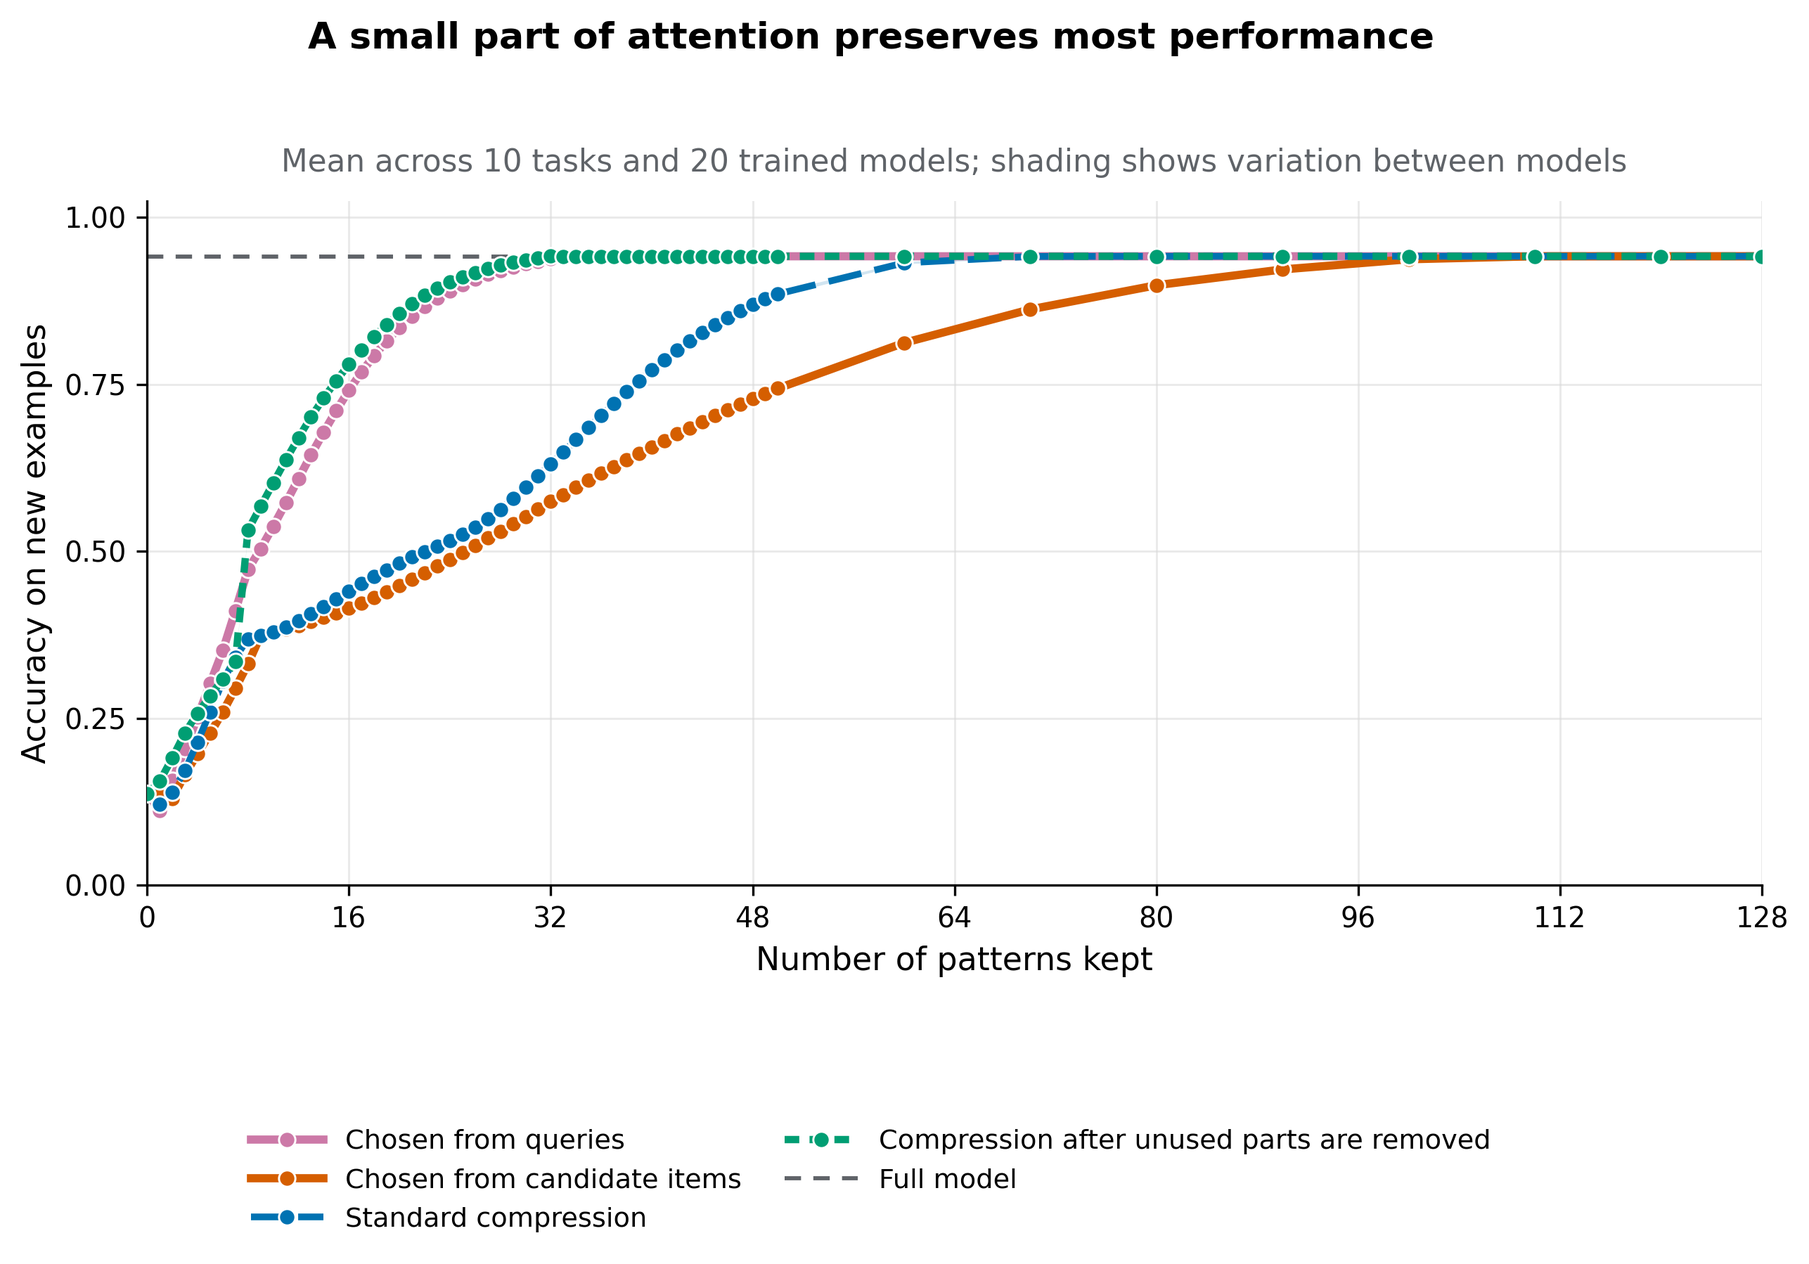
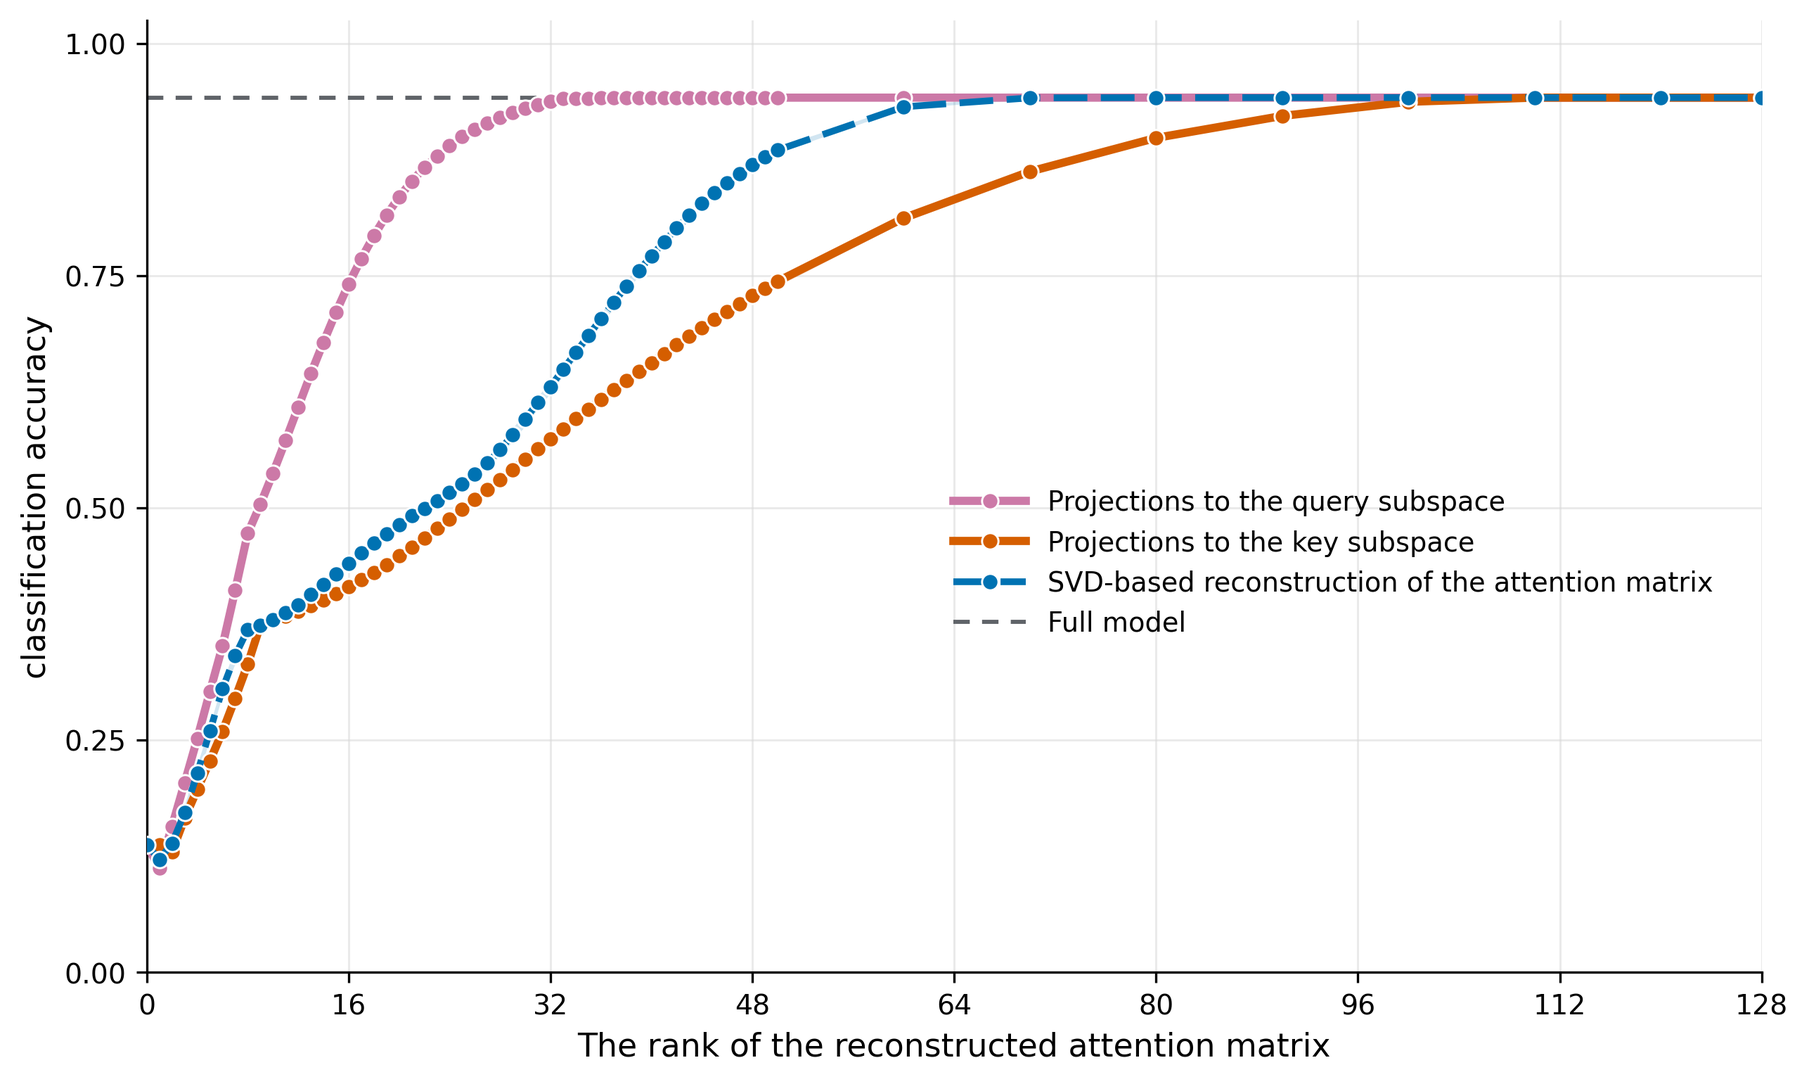
Update attention blog post

diff --git a/blog/connecting-structure-to-function-in-attention.html b/blog/connecting-structure-to-function-in-attention.html
@@ -10,12 +10,12 @@
     <link rel="canonical" href="https://fatihdinc.github.io/blog/connecting-structure-to-function-in-attention.html">
     <meta property="og:type" content="article">
     <meta property="og:title" content="Towards connecting structure and function in attention?">
-    <meta property="og:description" content="A small attention model can look complicated while using a much smaller, task-specific part of what it learned.">
+    <meta property="og:description" content="A small model can look complicated while using a much smaller part of what it learned.">
     <meta property="og:url" content="https://fatihdinc.github.io/blog/connecting-structure-to-function-in-attention.html">
     <meta property="og:image" content="https://fatihdinc.github.io/assets/og.png">
     <meta name="twitter:card" content="summary_large_image">
     <meta name="twitter:title" content="Towards connecting structure and function in attention?">
-    <meta name="twitter:description" content="A small attention model can look complicated while using a much smaller, task-specific part of what it learned.">
+    <meta name="twitter:description" content="A small model can look complicated while using a much smaller part of what it learned.">
     <meta name="twitter:image" content="https://fatihdinc.github.io/assets/og.png">
     <title>Towards connecting structure and function in attention? | Fatih Dinc</title>
     <link rel="stylesheet" href="../styles.css">
@@ -45,52 +45,52 @@
         <header class="article-header">
           <p class="article-kicker">Research note · August 2026</p>
           <h1>Towards connecting structure and function in attention?</h1>
-          <p class="article-deck">A small model can look complicated while using a much smaller, task-specific part of what it learned.</p>
+          <p class="article-deck">A small model can look complicated while using a much smaller part of what it learned.</p>
         </header>
 
         <div class="article-body">
-          <p class="article-lead">A neural network may contain many learned connections while using only a small, task-specific part for one behavior. In this blog post, I show that a simple attention model can preserve almost all of its performance using a much lower-rank version of its attention rule. This links what the model does (function) to how its learned connections are organized (structure). It may also give us the backbone of a method for future causal tests in LLMs.</p>
+          <p class="article-lead"><em>TLDR:</em> A neural network may contain many learned parameters while using only a small part for a specific behavior. I introduce a method based on activations of an attention layer that identifies a low-rank reconstruction of the learned key-query matrices and preserves its performance. This links what the model does (function) to how its learned connections are organized (structure). It may also give us the backbone of a method for future causal tests in LLMs that does not require any training beyond inference.</p>
+
+          <figure class="article-figure article-figure-data">
+            <img src="../assets/blog/attention/functional-rank.png?v=4" width="2573" height="1541" alt="Accuracy after projecting the attention rule onto the query or key subspace, or reconstructing it with SVD">
+            <figcaption><strong>Figure 1.</strong> The plot shows classification accuracy (y-axis) vs the rank of the attention matrix (x-axis) in a simple attention model trained on a classification task. At each point, the model is retested after the attention matrix (obtained by multiplying key and query matrices) is reconstructed with a low-rank component. Curves are average classification accuracies across 20 seeds.</figcaption>
+          </figure>
+
+          <p class="figure-guide"><strong>How to read Figure 1:</strong> moving right means keeping more of the original attention matrix. Moving up means performing the classifications more accurately.</p>
 
           <h2>The idea from neuroscience</h2>
 
           <p>Some early interpretability work searched for <a href="https://aclanthology.org/2022.acl-long.581/">individual artificial neurons associated with particular facts</a>. Neuroscience, too, once searched for single neurons that represented a stimulus, place, or choice. The famous <a href="https://en.wikipedia.org/wiki/Concept_cell">“Jennifer Aniston neuron”</a> is a well-known example of this single-neuron view. More recent research instead argues that many computations are better understood as coordinated patterns across groups of neurons.</p>
 
-          <p>How that coordination is achieved, however, has remained a mystery for a long time. We refer to this as the problem of <em>connecting structure (parameters) to function (computation).</em> Recent theoretical work on <a href="https://doi.org/10.1016/j.neuron.2018.07.003">low-rank recurrent neural networks (RNNs)</a> suggests that these shared activity patterns, also called “latent variables,” are mathematically reflected in how neurons are connected to each other. In these theories, the <strong>matrix rank</strong> of the connections becomes a fundamental unit of neural computation in that it counts how many independent patterns the connections can carry.</p>
+          <p>How that coordination is achieved, however, has remained a mystery for a long time. We refer to this as the problem of <em>connecting structure (parameters) to function (computation).</em> Recent theoretical work on <a href="https://doi.org/10.1016/j.neuron.2018.07.003">low-rank recurrent neural networks (RNNs)</a> suggests that these shared activity patterns, also called “latent variables,” are mathematically reflected in how neurons are connected to each other. In these theories, the <strong>matrix rank</strong> of the synaptic connections becomes a fundamental unit of neural computation in that it counts how many independent patterns the connections can carry.</p>
 
           <p>In this formulation, we ask not only which latent variables support a computation, but also <em>how the parameters of the model give rise to those variables</em>. My <a href="https://www.biorxiv.org/content/10.64898/2026.07.10.737763v1">PhD work</a> studies this link across several kinds of biologically plausible RNNs and explains several disjointed empirical phenomena under a few common basic principles.</p>
 
-          <p>Of course, the inverse problem is at least as interesting, if not more practically relevant. A model may contain many parameters that have nothing to do with the computation at hand. Can its activity tell us which parts matter? In <a href="https://openreview.net/forum?id=Ucw3Hl28Wo">recent work</a>, we studied a method based on the observed activity of units in a network to answer this question in RNN models of neural computation. Here I extend this result to a simple attention model and ask: can examples from a task tell us which part of a trained model is enough to preserve what it does?</p>
+          <p>Of course, the inverse problem is at least as interesting, if not more practically relevant. A model may contain many parameters that have nothing to do with the computation at hand. Can its activity tell us which parts matter? In <a href="https://openreview.net/forum?id=Ucw3Hl28Wo">recent work</a>, we studied a method based on the observed activity of units in a network to answer this question in RNN models of neural computation. Here I extend this result to a simple attention model and ask “can examples from a task tell us which part of a trained model is enough to preserve what it does?”</p>
 
           <h2>A brief introduction to the method</h2>
 
-          <p>A neural-network layer receives a pattern of activity, which we call <em>x</em>. Its learned connections, <em>W</em>, transform that activity into <em>Wx</em>, which then passes through other types of transformations. In biology, <em>x</em> corresponds to neural activity and <em>W</em> to the strengths of the connections between neurons. With these defined, the overall question is deceptively simple: When a network performs one task, which parts of <em>W</em> actually matter?</p>
+          <p>A neural-network layer receives inputs, which we call <em>x</em>. Its learned connections, <em>W</em>, transform these inputs into <em>Wx</em>, which then passes through other types of transformations. In biology, <em>x</em> corresponds to activity of other neurons in the network and <em>W</em> to the strengths of the connections between neurons. With these defined, the overall question is deceptively simple: When a network performs one task, which parts of <em>W</em> actually matter?</p>
 
-          <p>It turns out that one plausible answer is simple. One should simply collect all patterns of activity {<em>x</em>(<em>t</em>)} observed during a particular task. A <strong>Gram matrix</strong>, <em>G</em><sub>x</sub> = ⟨<em>xx</em><sup>T</sup>⟩, summarizes these observations. Its leading directions are the activity patterns that the task uses most, making them natural candidates for the parts of <em>W</em> that matter. More on this connection can be found <a href="https://openreview.net/forum?id=Ucw3Hl28Wo">here</a>.</p>
+          <p>To answer this, one can simply collect all patterns of activity {<em>x</em>(<em>t</em>)} observed during a particular task. A <strong>Gram matrix</strong>, <em>G</em><sub>x</sub> = ⟨<em>x</em>(<em>t</em>)<em>x</em><sup>T</sup>(<em>t</em>)⟩, summarizes these observations. Its leading eigendirections are the activity patterns that the task uses most, making them natural candidates for extracting the parts of <em>W</em> that matter. Specifically, one can perform a projection of <em>W</em> → <em>WP</em><sub>X</sub> down to a lower dimensional subspace <em>P</em><sub>X</sub> spanned by these directions. The resulting low-rank reconstruction <em>WP</em><sub>X</sub> is what we refer to as the “task-relevant” components of the learned parameters. More on this mathematical connection can be found <a href="https://openreview.net/forum?id=Ucw3Hl28Wo">here</a>.</p>
 
-          <p>Attention, unlike traditional RNNs, has two types of inputs, which enables a trivial extension of the Gram matrix. An attention layer compares a query <em>q</em> with a key <em>k</em> through a matching rule of the form <em>q</em><sup>T</sup><em>Mk</em>, where <em>M</em> is a combination of the learned key and query matrices. The extension of the method involves building one Gram matrix from the queries and another from the keys. One then uses their leading directions to decide which patterns of the trained matrix <em>M</em> to keep.</p>
+          <p>Attention, unlike traditional RNNs, has two types of inputs, which enables a trivial extension of the aforementioned Gram matrix method. An attention layer compares a query <em>q</em> with a key <em>k</em> through a matching rule of the form <em>q</em><sup>T</sup><em>Mk</em>, where <em>M</em> is a combination of the learned key and query matrices. The extension of the method involves building one Gram matrix from the queries and another from the keys. One can use their leading directions to project the trained matrix <em>M</em> to a lower-dimensional subspace as before, though this time via projections on either sides.</p>
 
           <h2>A small attention test</h2>
 
           <p>Imagine giving a model one request and 64 index cards. Attention compares the request with every card and uses the strongest matches to choose an answer. I trained 20 copies of this small model, from different random starting points, on ten artificial tasks simultaneously. Some tasks required an exact match; others used incomplete information, priorities, or a vote. More methodological details are available in the <a href="https://github.com/fatihdinc/attention-identifiability">public GitHub repository</a>. This test deliberately does not use a language model. Rather, the simplicity of a single attention layer lets us study and extend the connection between structure and function.</p>
 
-          <p>The query and key parameters work together to produce a rule for matching each request to the cards. I studied this combined rule, then tested how much of it I could remove while preserving the answers. Here, rank counts how many independent matching patterns are kept. I used the observed queries or keys to decide which patterns to keep, then tested the newly constructed “simpler” attention layer (i.e., one with a much lower rank) on new trials.</p>
+          <p>The query and key parameters work together to produce a rule for matching each request to the cards. I studied this combined rule, then tested how much of it I could remove while preserving the answers. I used the observed queries or keys to decide which ranks to keep, then tested the newly constructed “simpler” attention layer (i.e., one with a much lower rank) on new trials (Fig. 1). At rank 24, the version chosen from queries was correct <strong>89%</strong> of the time, close to <strong>94%</strong> for the full model. Standard compression using a singular value decomposition, which looked only at the learned weights but not the activations, reached <strong>52%</strong>.</p>
 
-          <p class="figure-guide"><strong>How to read Figure 1:</strong> moving right means keeping more of the original attention rule. Moving up means answering more test examples correctly.</p>
-
-          <figure class="article-figure article-figure-data">
-            <img src="../assets/blog/attention/functional-rank.png" width="2573" height="1798" alt="Accuracy after keeping patterns chosen from queries, candidate items, or two standard compression methods">
-            <figcaption><strong>Figure 1.</strong> At each point, the model is retested after part of its attention rule is removed. Curves first average the ten tasks within each model. Dots show the mean across 20 models, and shaded regions show one standard deviation.</figcaption>
-          </figure>
-
-          <p>At rank 24, the version chosen from queries was correct <strong>89%</strong> of the time, close to <strong>94%</strong> for the full model. Standard compression using a singular value decomposition, which looked only at the learned weights but not the activations, reached <strong>52%</strong>. By design, the artificial inputs never use some available patterns. I therefore added a new comparison, which used the Gram matrices defined on keys and queries. Specifically, I removed the parts of the rule that no query or key could use, i.e., those directions that were associated with the null-space of the Gram matrices. SVD-based reconstruction on this “task-specific” matrix then reached <strong>90%</strong> at rank 24, showing that a rank-24 reconstruction of the combined query–key scoring rule preserved most of the model's average performance.</p>
-
-          <p><em>What is interesting here?</em> The combined matching rule across all 10 tasks could technically live in a 128-dimensional space. Yet most of the model's performance could be preserved with only 24 task-selected patterns. Most importantly, we selected those patterns <strong>without any additional training</strong>, using the activity observed during normal task operation and the already-trained attention rule. Finally, the <a href="https://github.com/fatihdinc/attention-identifiability">repository</a> contains an additional control showing that the useful query-selected directions depended on the task: after matching the explicit task tag, directions selected from other tasks transferred poorly.</p>
+          <p><em>What is interesting here?</em> The combined attention rule across all 10 tasks could technically live in a 128-dimensional space. Yet most of the model's performance could be preserved with only 24 task-selected ranks. Most importantly, we selected those ranks <strong>without any additional training</strong>, using the activity observed during normal network operation and the already-trained attention matrix. Finally, the <a href="https://github.com/fatihdinc/attention-identifiability">repository</a> contains an additional control showing that the useful query-selected ranks depended on the task. Specifically, after matching the explicit task tag, ranks selected from other tasks transferred poorly.</p>
 
           <h2>Why this could matter for LLM safety</h2>
 
-          <p>This experiment contains no language and no unsafe behavior. Some of its task-specific structure was built into the artificial data. It is a controlled proof of principle, not evidence that an LLM can already be steered this way. Still, the connection to LLM safety is not far-fetched, e.g., one would certainly wish to identify low-rank components of learned parameters that are causally linked to specific (harmful) behaviors.</p>
+          <p>This experiment contains no language and no unsafe behavior. Some of its task-specific structure was built into the artificial data. It is a controlled proof of principle, not evidence that an LLM can already be steered this way. Still, the connection to LLM safety is not far-fetched, e.g., one would certainly wish to identify low-rank components of learned parameters that are causally linked to specific (harmful) behaviors. The Gram matrix based low-rank reconstruction provides one cheap method for achieving this that requires no additional training.</p>
 
-          <p>The next step of this research is to test necessity and selectivity in a pretrained language model. We could use natural-language prompts to find a small part linked to a task, then remove or strengthen it. The hope is to find a plausible steering target. This is related to, but distinct from, <a href="https://arxiv.org/abs/2106.09685">low-rank adaptation</a>, which learns new low-rank updates during training. Here, the goal is to identify an existing, task-linked part of a trained model. If the method transfers, candidate directions could be estimated from activations collected during ordinary forward passes, without retraining the model.</p>
+          <p>The next step of this research is to test necessity and selectivity in a pretrained language model. We could use natural-language prompts to find a small part linked to a particular task, then remove or strengthen it. The hope is to find a plausible steering target. This is related to, but distinct from, <a href="https://arxiv.org/abs/2106.09685">low-rank adaptation</a>, which learns new low-rank updates during training. Here, the goal is to identify an existing, behavior-linked part of a trained model. If the method transfers, candidate directions could be estimated from activations collected during ordinary forward passes, without retraining the model.</p>
+
+          <p>See the <a href="https://github.com/fatihdinc/attention-identifiability">repository</a> for additional details about this experiment.</p>
 
           <div class="article-footer-links">
             <a href="https://github.com/fatihdinc/attention-identifiability">Code, data pipeline, and audit trail</a>

diff --git a/styles.css b/styles.css
@@ -415,12 +415,12 @@ button {
 }
 
 .article {
-  padding-block: clamp(4rem, 8vw, 6.5rem);
+  padding-block: clamp(3rem, 5vw, 4.5rem);
 }
 
 .article-header {
-  max-width: 48rem;
-  padding-bottom: clamp(2rem, 5vw, 3.3rem);
+  max-width: 62rem;
+  padding-bottom: clamp(1.5rem, 3vw, 2.25rem);
   margin-inline: auto;
   border-bottom: 1px solid var(--border);
 }
@@ -451,12 +451,12 @@ button {
 }
 
 .article-body {
-  max-width: 46rem;
-  margin: clamp(2.5rem, 6vw, 4.2rem) auto 0;
+  max-width: 58rem;
+  margin: clamp(1.75rem, 4vw, 2.75rem) auto 0;
 }
 
 .article-body > h2 {
-  margin: clamp(3rem, 7vw, 4.5rem) 0 1rem;
+  margin: clamp(2.4rem, 5vw, 3.4rem) 0 1rem;
   font-size: clamp(1.55rem, 3vw, 2rem);
   font-weight: 650;
   letter-spacing: -0.025em;
@@ -464,9 +464,9 @@ button {
 }
 
 .article-body > p {
-  margin: 0 0 1.5rem;
+  margin: 0 0 1.2rem;
   font-size: 1.07rem;
-  line-height: 1.76;
+  line-height: 1.68;
 }
 
 .article-body > .article-lead {
@@ -494,7 +494,7 @@ button {
 }
 
 .article-figure {
-  margin-block: clamp(2.5rem, 6vw, 4rem);
+  margin-block: clamp(2rem, 4vw, 3rem);
   margin-inline: auto;
 }
 
@@ -517,7 +517,7 @@ button {
 }
 
 .article-figure figcaption {
-  max-width: 46rem;
+  max-width: 58rem;
   margin: 0.7rem auto 0;
   color: var(--muted);
   font-size: 0.82rem;

diff --git a/index.html b/index.html
@@ -133,7 +133,7 @@
           <article class="writing-item">
             <p class="writing-meta">Research note · August 2026</p>
             <h3><a href="blog/connecting-structure-to-function-in-attention.html">Towards connecting structure and function in attention?</a></h3>
-            <p>A small attention model can look complicated while using a much smaller, task-specific part of what it learned.</p>
+            <p>A small model can look complicated while using a much smaller part of what it learned.</p>
             <a class="writing-read" href="blog/connecting-structure-to-function-in-attention.html">Read the note <span aria-hidden="true">→</span></a>
           </article>
         </div>
